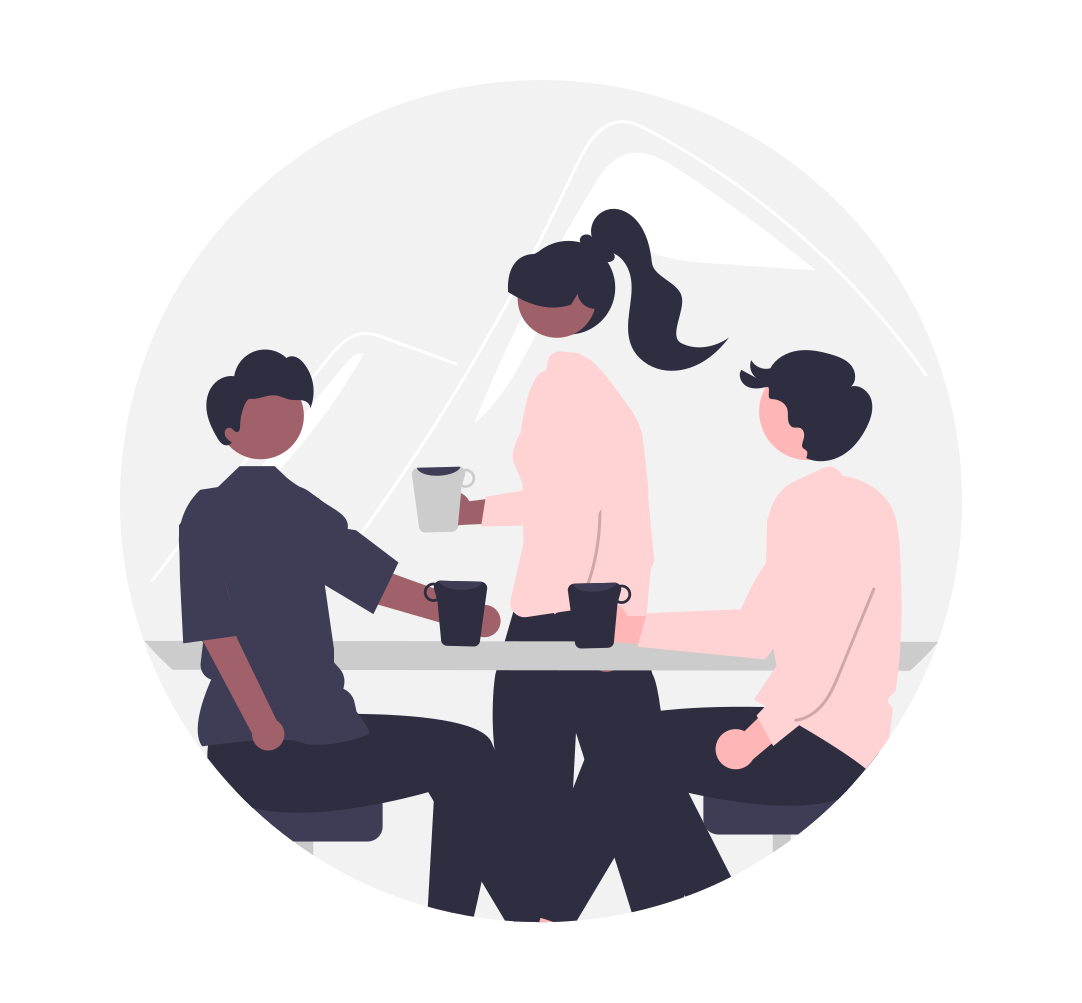
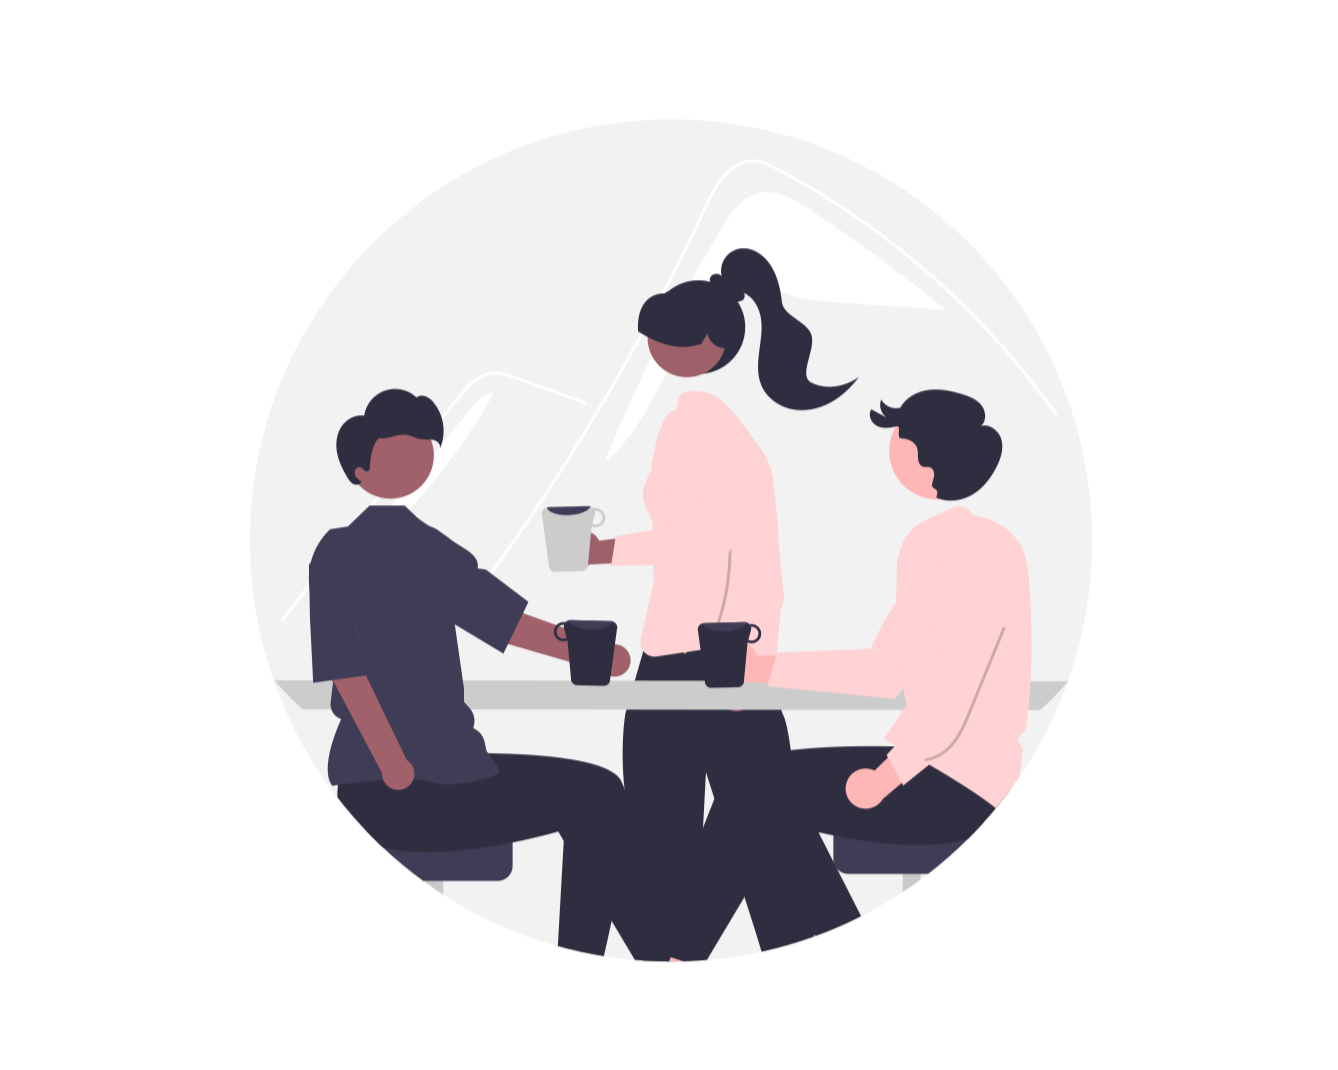
バナー画像の縦横比修正,バナー画像の配置修正,各種微修正

Changed region(s): [[0.122, 0.1854, 0.854, 0.9272], [0.5185, 0.7109, 0.549, 0.7727]]

diff --git a/index.html b/index.html
@@ -161,11 +161,25 @@
       <h1 class="top-header" id="about-us">SFCの中国語教育</h1>
 
       <div class="row">
-        <div class="col-4 col-sm-3 p-1 ps-sm-3 p-sm-1">
+        <div class="col-6 col-sm-3 p-1 ps-sm-3 p-sm-1">
+          <a href="pages/goal.html"
+            ><div class="card h-100 text-danger border-1 shadow">
+              <img
+                src="img/goal.png"
+                class="card-img h-100 img-fluid"
+                alt="..."
+              />
+              <div class="card-img-overlay">
+                <h5 class="card-title">教育目標と理念</h5>
+              </div>
+            </div>
+          </a>
+        </div>
+        <div class="col-6 col-sm-3 p-1 p-sm-1">
           <a href="pages/lab.html"
             ><div class="card h-100 text-danger border-1 shadow">
               <img
-                src="img/top1.png"
+                src="img/lab.png"
                 class="card-img h-100 img-fluid"
                 alt="..."
               />
@@ -175,11 +189,11 @@
             </div>
           </a>
         </div>
-        <div class="col-4 col-sm-3 p-1 p-sm-1">
+        <div class="col-6 col-sm-3 p-1 p-sm-1">
           <a href="pages/teachers.html"
             ><div class="card h-100 text-danger border-1 shadow">
               <img
-                src="img/top2.png"
+                src="img/teachers.png"
                 class="card-img h-100 img-fluid"
                 alt="..."
               />
@@ -189,30 +203,16 @@
             </div>
           </a>
         </div>
-        <div class="col-4 col-sm-3 p-1 p-sm-1">
+        <div class="col-6 col-sm-3 p-1 pe-sm-3 p-sm-1">
           <a href="pages/tasa.html"
             ><div class="card h-100 text-danger border-1 shadow">
               <img
-                src="img/top3.png"
+                src="img/tasa.png"
                 class="card-img h-100 img-fluid"
                 alt="..."
               />
               <div class="card-img-overlay">
                 <h5 class="card-title">SA/TA紹介</h5>
-              </div>
-            </div>
-          </a>
-        </div>
-        <div class="col-4 col-sm-3 p-1 pe-sm-3 p-sm-1">
-          <a href="pages/goal.html"
-            ><div class="card h-100 text-danger border-1 shadow">
-              <img
-                src="img/top3-1.png"
-                class="card-img h-100 img-fluid"
-                alt="..."
-              />
-              <div class="card-img-overlay">
-                <h5 class="card-title">教育目標と理念</h5>
               </div>
             </div>
           </a>
@@ -226,7 +226,7 @@
           <a href="pages/courses.html"
             ><div class="card h-100 text-danger border-1 shadow">
               <img
-                src="img/top6.png"
+                src="img/courses.png"
                 class="card-img h-100 img-fluid"
                 alt="..."
               />
@@ -240,7 +240,7 @@
           <a href="pages/kakyo.html"
             ><div class="card h-100 text-danger border-1 shadow">
               <img
-                src="img/top7.png"
+                src="img/kakyo.png"
                 class="card-img h-100 img-fluid"
                 alt="..."
               />
@@ -254,7 +254,7 @@
           <a href="pages/study_abroad.html"
             ><div class="card h-100 text-danger border-1 shadow">
               <img
-                src="img/top8.png"
+                src="img/study_abroad.png"
                 class="card-img h-100 img-fluid"
                 alt="..."
               />
@@ -273,7 +273,7 @@
           <a href="pages/study_room.html"
             ><div class="card h-100 text-danger border-1 shadow">
               <img
-                src="img/top9.png"
+                src="img/study_room.png"
                 class="card-img h-100 img-fluid"
                 alt="..."
               />
@@ -287,7 +287,7 @@
           <a href="pages/class_material.html"
             ><div class="card h-100 text-danger border-1 shadow">
               <img
-                src="img/top10.png"
+                src="img/class_material.png"
                 class="card-img h-100 img-fluid"
                 alt="..."
               />
@@ -301,7 +301,7 @@
           <a href="pages/words.html"
             ><div class="card h-100 text-danger border-1 shadow">
               <img
-                src="img/top11.png"
+                src="img/words.png"
                 class="card-img h-100 img-fluid"
                 alt="..."
               />
@@ -315,7 +315,7 @@
           <a href="member/grammar.html"
             ><div class="card h-100 text-danger border-1 shadow">
               <img
-                src="img/top12.png"
+                src="img/grammar.png"
                 class="card-img h-100 img-fluid"
                 alt="..."
               />
@@ -330,7 +330,7 @@
           <a href="pages/listening.html"
             ><div class="card h-100 text-danger border-1 shadow">
               <img
-                src="img/top13.png"
+                src="img/listening.png"
                 class="card-img h-100 img-fluid"
                 alt="..."
               />
@@ -344,7 +344,7 @@
           <a href="pages/pronunciation.html"
             ><div class="card h-100 text-danger border-1 shadow">
               <img
-                src="img/top14.png"
+                src="img/pronunciation.png"
                 class="card-img h-100 img-fluid"
                 alt="..."
               />
@@ -358,7 +358,7 @@
           <a href="member/text_sound.html"
             ><div class="card h-100 text-danger border-1 shadow">
               <img
-                src="img/top15.png"
+                src="img/text_sound.png"
                 class="card-img h-100 img-fluid"
                 alt="..."
               />
@@ -372,7 +372,7 @@
           <a href="pages/external_tests.html"
             ><div class="card h-100 text-danger border-1 shadow">
               <img
-                src="img/top16.png"
+                src="img/external_tests.png"
                 class="card-img h-100 img-fluid"
                 alt="..."
               />
@@ -382,39 +382,6 @@
             </div>
           </a>
         </div>
-        <!-- <div class="col-4 col-sm-3 p-1 pe-sm-3 p-sm-5 position-relative">
-          <a href="pages/listening.html" class="text-decoration-none">
-            <img src="img/top13.png" class="img-fluid" alt="..." />
-            <div class="p-3 text-danger text-center fs-3 fw-bold">
-              リスニング
-            </div>
-          </a>
-        </div>
-        <div class="col-4 col-sm-3 p-1 pe-sm-3 p-sm-5 position-relative">
-          <a href="pages/pronunciation.html" class="text-decoration-none">
-            <img src="img/top14.png" class="img-fluid" alt="..." />
-            <div class="p-3 text-danger text-center fs-3 fw-bold">発音</div>
-          </a>
-        </div>
-        <div class="col-4 col-sm-3 p-1 pe-sm-3 p-sm-5 position-relative">
-          <a href="pages/text_sound.html" class="text-decoration-none">
-            <img src="img/top15.png" class="img-fluid" alt="..." />
-            <div class="p-3 text-danger text-center fs-3 fw-bold">
-              本文の音声
-            </div>
-          </a>
-        </div>
-        <div class="col-4 col-sm-3 p-1 pe-sm-3 p-sm-5 position-relative">
-          <a href="pages/external_tests.html" class="text-decoration-none">
-            <img src="img/top16.png" class="img-fluid" alt="..." />
-            <div
-              class="p-3 text-danger text-center fs-3 fw-bold"
-              style="text-shadow: 3px 3px 1px rgba(124, 124, 124, 0.3)"
-            >
-              外部試験
-            </div>
-          </a>
-        </div> -->
       </div>
 
       <h1 class="top-header" id="about-research">中国研究関連</h1>
@@ -424,7 +391,7 @@
           <a href="pages/research_groups.html"
             ><div class="card h-100 text-danger border-1 shadow">
               <img
-                src="img/top4.png"
+                src="img/research_groups.png"
                 class="card-img h-100 img-fluid"
                 alt="..."
               />
@@ -438,7 +405,7 @@
           <a href="pages/research_news.html"
             ><div class="card h-100 text-danger border-1 shadow">
               <img
-                src="img/top5.png"
+                src="img/research_news.png"
                 class="card-img h-100 img-fluid"
                 alt="..."
               />

diff --git a/pages/kakyo.html b/pages/kakyo.html
@@ -115,10 +115,7 @@
               「科挙」は、一般的な語学試験形式ですが、インテンシブコースの内容に関連した問題も出題されます。SFC中国語の特色であるコミュニケーション重視を反映した聞き取り力テストもあります。
             </li>
           </ul>
-          <p>
-            科挙の日程<a id="sec01" name="sec01"></a
-            ><a id="sec02" name="sec02"></a>
-          </p>
+          <p>科挙の日程</p>
           <ul class="list">
             <li class="">
               <span style="color: #ff0000"

diff --git a/pages/faq.html b/pages/faq.html
@@ -878,7 +878,7 @@
               aria-controls="panelsStayOpen-collapse28"
             >
               <i class="bi bi-hash"></i>
-              &nbsp;期末試験の解答用紙を返してほしいのですが
+              &nbsp; 期末試験の解答用紙を返してほしいのですが
             </button>
           </h2>
           <div
